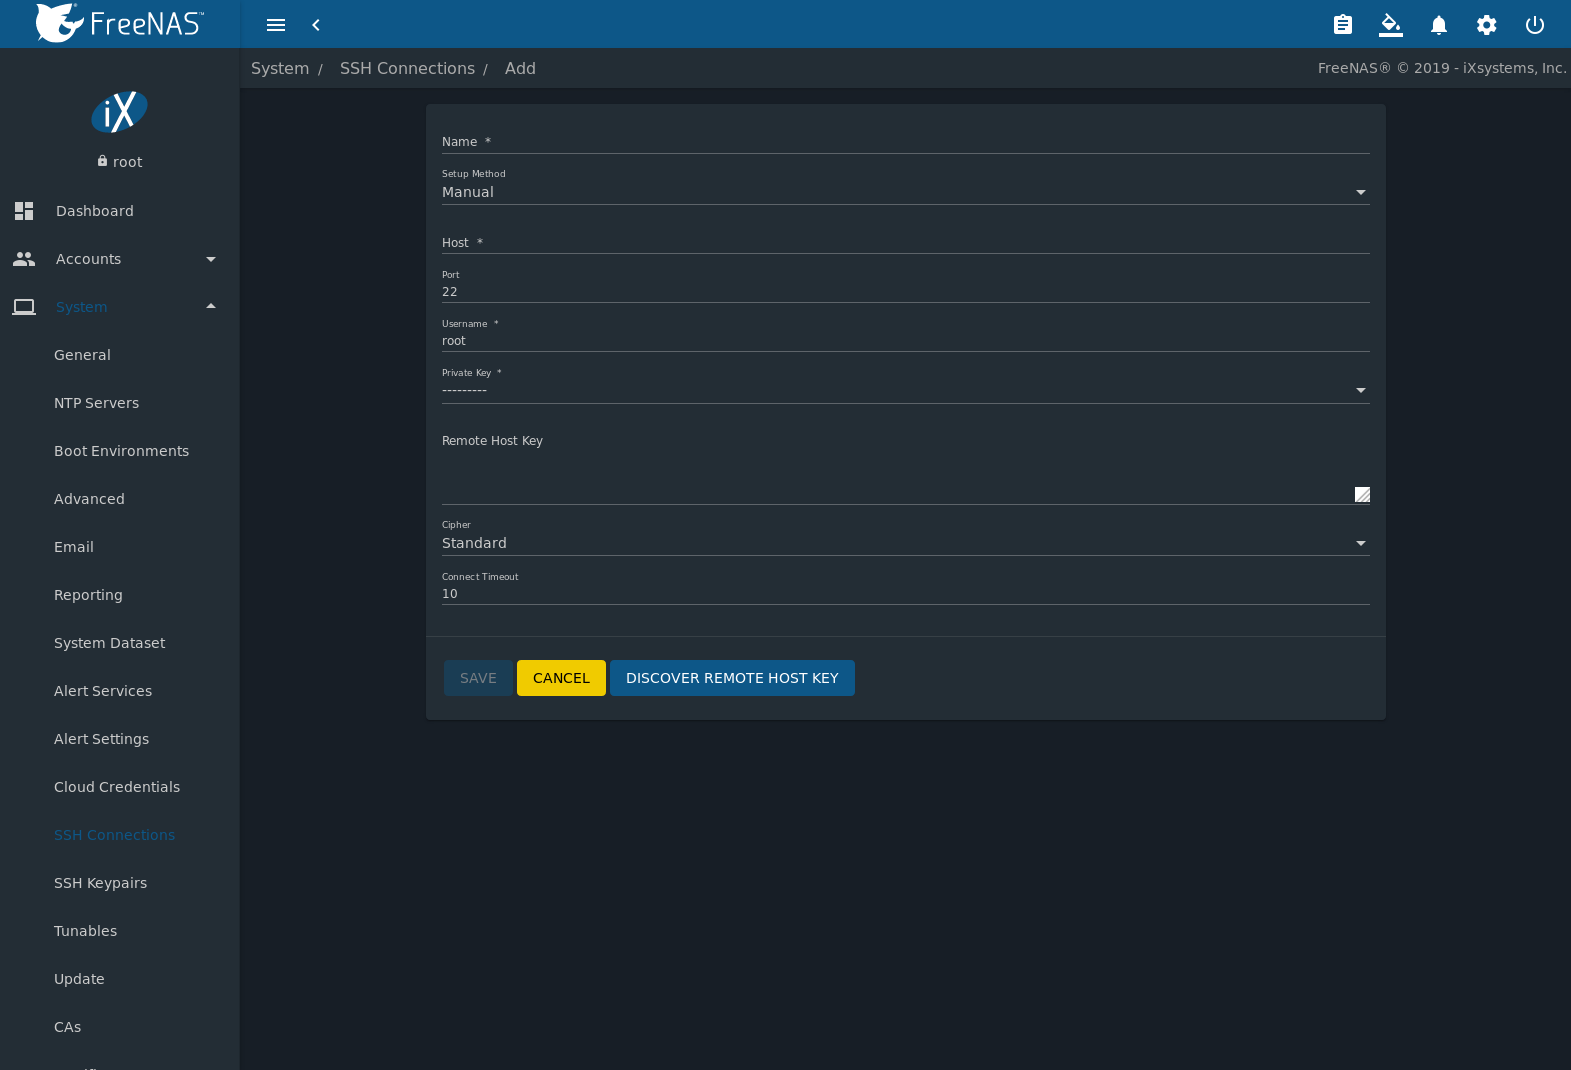
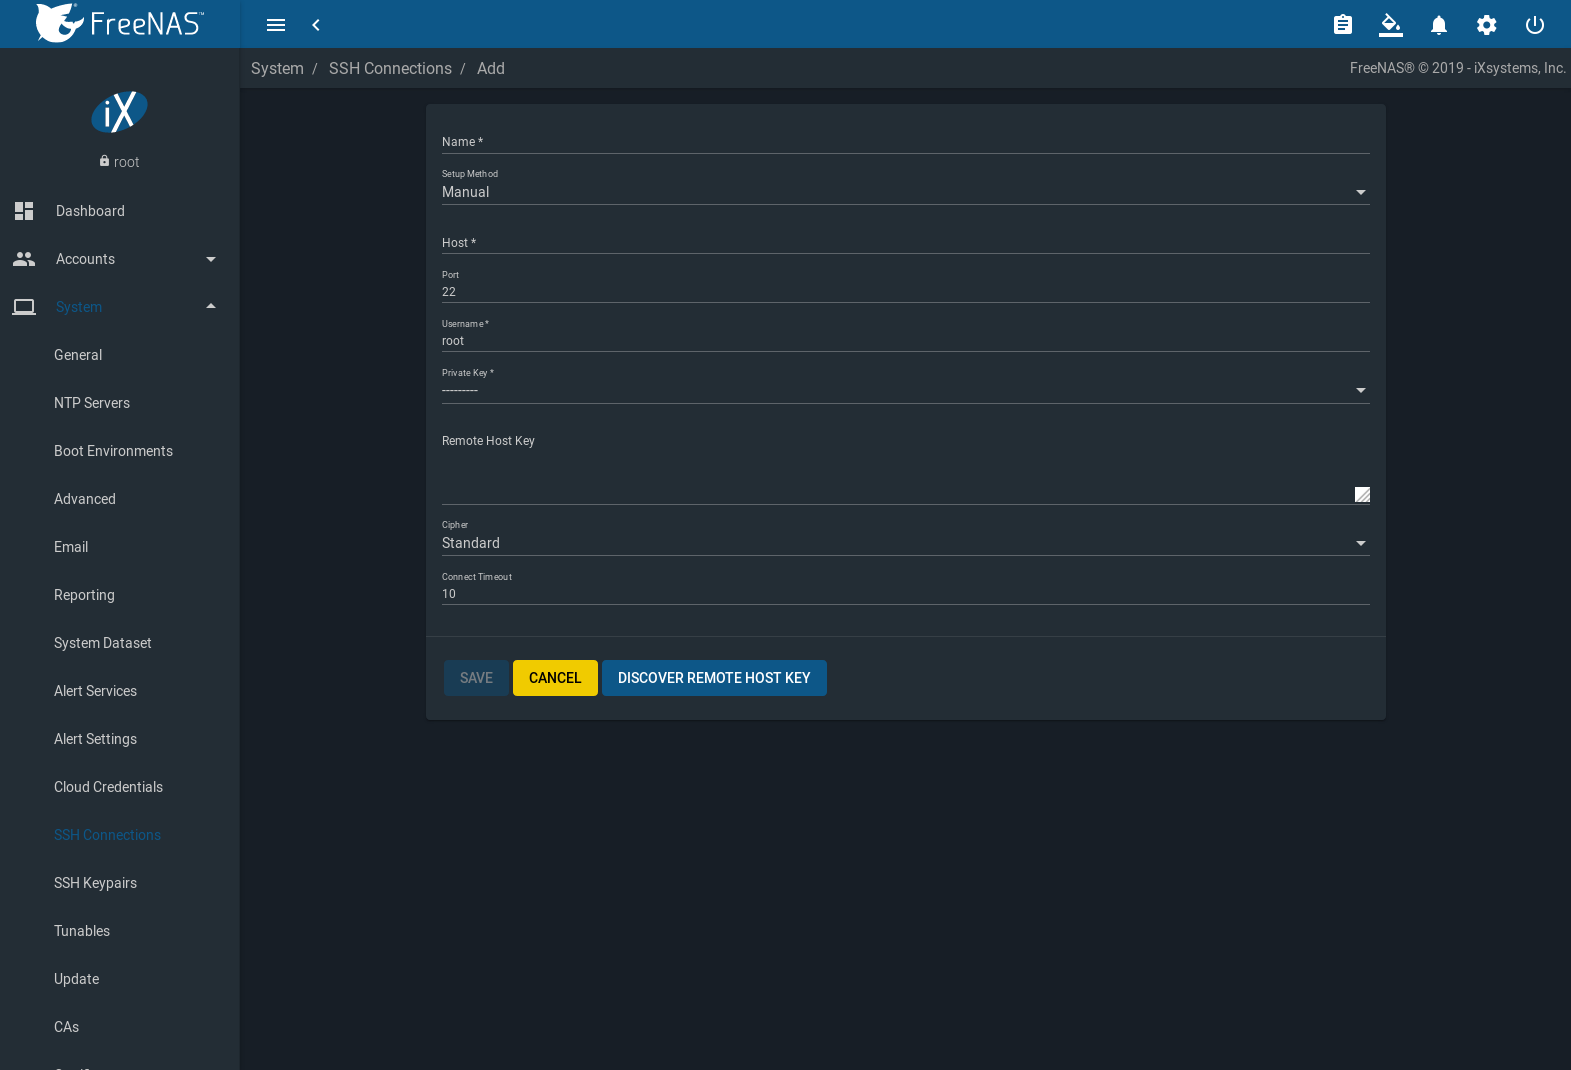
NAS-101108: Fix HTML build errors and make some small updates to SSH Connections

diff --git a/userguide/system.rst b/userguide/system.rst
@@ -1418,7 +1418,8 @@ To add a new SSH connection, go to
 and click |ui-add|.
 
 .. _system_ssh_connections_add_fig:
-.. figure:: images/
+
+.. figure:: images/system-ssh-connections-add.png
 
 
 .. tabularcolumns:: |>{\RaggedRight}p{\dimexpr 0.16\linewidth-2\tabcolsep}
@@ -1471,7 +1472,8 @@ and click |ui-add|.
    | Cipher          | drop-down menu | Connection security level:                                                          |
    |                 |                |                                                                                     |
    |                 |                | * *Standard* is most secure, but has the greatest impact on connection speed.       |
-   |                 |                | * *Fast* reduces the security level to improve connection speeds.                   |
+   |                 |                | * *Fast* is less secure than *Standard* but can give reasonable transfer rates for  |
+   |                 |                |   devices with limited cryptographic speed.                                         |
    |                 |                | * *Disabled* removes all security in favor of maximizing connection speed.          |
    |                 |                |   Disabling the security should only be used within a secure, trusted network.      |
    |                 |                |                                                                                     |

diff --git a/userguide/tasks.rst b/userguide/tasks.rst
@@ -1312,10 +1312,9 @@ preceding information on the screen and type :literal:`yes`. At this
 point, an :ref:`SSH` shell connection is open to the destination
 system, *Beta*.
 
-If a password is requested, SSH authentication is not working. See
-:numref:`Figure %s <zfs_copy_replication_key_fig>` above. This key
-value must be present in the :file:`/root/.ssh/authorized_keys` file
-on *Beta*, the destination computer. The :file:`/var/log/auth.log`
+If a password is requested, SSH authentication is not working. An
+SSH key value must be present in the destination system
+:file:`/root/.ssh/authorized_keys` file. :file:`/var/log/auth.log`
 file can show diagnostic errors for login problems on the destination
 computer also.
 
